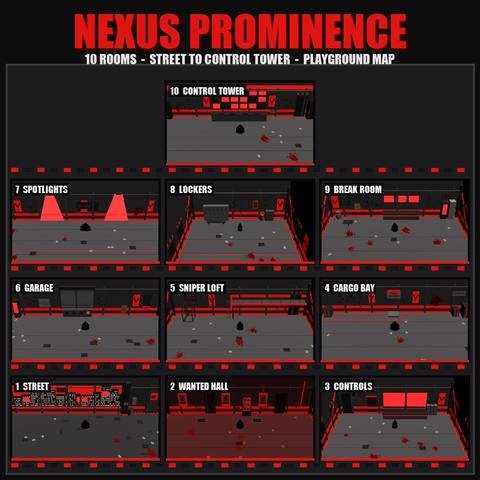
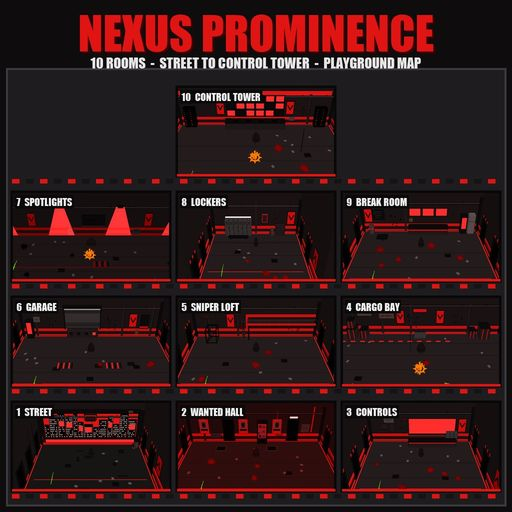
Nexus Prominence: release build-zf to the Workshop (#101)

diff --git a/ai-docs/HANDOFF.md b/ai-docs/HANDOFF.md
@@ -1,5 +1,7 @@
 # Handoff
 
+State on 2026-11-11 19:25 (released zf): the owner played build-zf (mods.log 19:15, clean) and said release it. Workshop item 3837705778 updated with change-notes-2026-11-11o.txt and preview built from shots-zf (lab workshop-preview-2026-11-11zf.jpg; repo copy shrunk): result OK, live public, updated 19:24, 27 subscribers. Gallery replaced with `previews --clear 7` (rooms 1, 2, 4, 6, 7, 10 from lab gal-zf + youtube:v0suvMY3GgM): result 1 (OK); the live page fetch came back without the gallery strip, so the 6 shots + 1 movie count is unconfirmed by eye. Nothing waits on a play. Next: look proposal 1 (front-third cover/debris) from notes/2026-11-11-nexus-overlaps-and-look.md, then 2, one per play; the requester's notes.
+
 State on 2026-11-11 (harvest): while the owner plays build-zf, session lessons and a community/official-doc harvest went into the skills (PR #98, plugin 0.1.21 tagged): scenes L-20261111-9 to -11, headless build marked verified, new "Spawns, doors and moving parts" rules; hub: gallery replaced on updates. Harvest note with unread leads (8 YouTube links, Steam guide 2664043208; guide 3305980802 rate-limited): [notes/2026-11-11-level-technique-harvest.md](notes/2026-11-11-level-technique-harvest.md). Ideas for the map from it: spawn doors stay Closed; stockpile order controls who is armed. build-zf still **not played, not uploaded**; next as in the entry below.
 
 State on 2026-11-11 18:55 (released ze, landing fix): the owner played build-ze and said release it: Workshop item 3837705778 updated with change-notes-2026-11-11n.txt and a new preview built from shots-ze (lab workshop-preview-2026-11-11ze.jpg); result OK. The gallery is replaced, not added to: new `wsup.exe previews <id> <notes> --clear 7 ...` removed the old 6 shots and the film, then added rooms 1, 2, 4, 6, 7, 10 from shots-ze and youtube:v0suvMY3GgM (live page: 6 screenshots + 1 movie). Owner's note: the rappel team faded into the pallet stack in the middle of room 4. `SpawnDoor` now pushes cover off each rope's landing (`NX_LANDING`: room 4 pallet, room 10 desk). build-zf: 40/40 corners, check-mod clean, overlaps as before, deployed 18:54. **Not played, not uploaded.** Next: owner plays zf (rope landings clear in rooms 4 and 10); on the OK upload with change-notes-2026-11-11o.txt and refresh pictures with `previews --clear 7` (6 shots + film); then look proposal 1 (front-third cover/debris), then 2. Plugin 0.1.20 (L-20261111-8).

diff --git a/ai-docs/log.md b/ai-docs/log.md
@@ -488,3 +488,7 @@ Look proposal 3 from notes/2026-11-11-nexus-overlaps-and-look.md: lit accents in
 - build-ze played (mods.log 18:47) and uploaded (notes n, preview ze from shots-ze). wsup.exe `previews --clear N` added (SteamAPI_ISteamUGC_RemoveItemPreview, highest index first); gallery replaced, live check 6 shots + 1 movie.
 - Rappel team landed in room 4's PX_Cover_Pallet: SpawnDoor clears 3.5 units around each Rapel point. build-zf deployed 18:54, not played. Learning L-20261111-8.
 - 2026-11-11 harvest: PR #98 merged (0.1.21, tag v0.1.21): session lessons L-20261111-9..11, headless build verified, harvested SceneTools rules, harvest.json linked; scenes CHANGELOG entry C-20261111-7 un-nested from the entry-shape line.
+
+## 2026-11-11 19:25 zf released
+
+- build-zf played (mods.log 19:15, no problems); owner: release it. wsup.exe updated 3837705778 (notes o, preview zf from shots-zf via tools/make_preview.py): result OK, updated 19:24, public, 27 subscribers. `previews --clear 7` with six zf room JPEGs + film: result 1. Steam page fetch (curl) lacks the gallery strip, so the live count was not checked.
